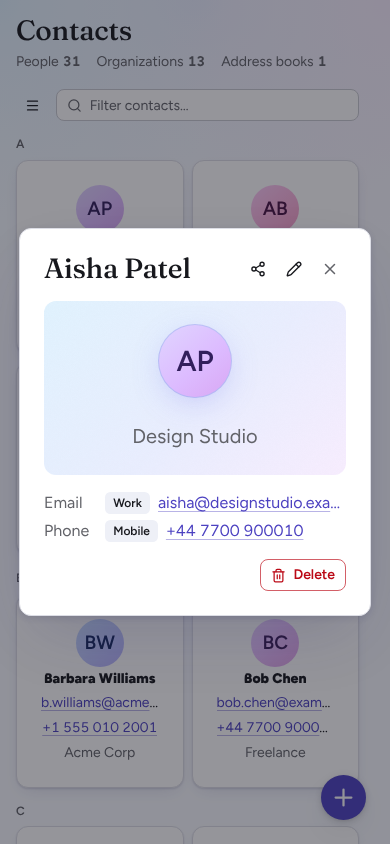
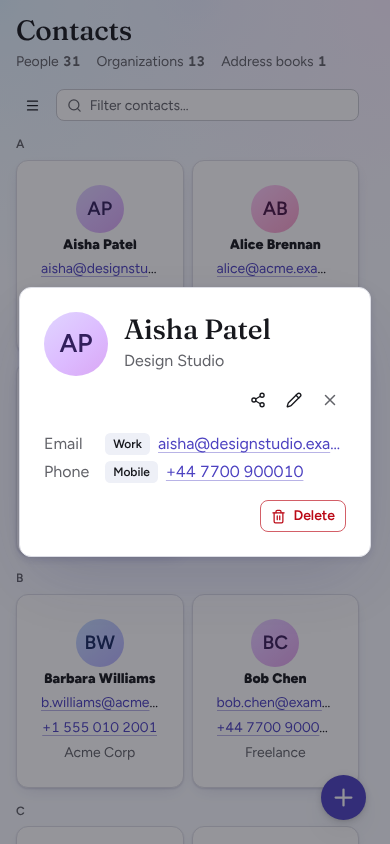
Contact dialog: one identity header; settings stays centred; temper's latest expressive fixes
From the design review of the remaining changes:
- The contact dialog's gradient band with a glowing avatar read as a social-profile template. The header now holds
  the identity: the seeded avatar, the name (the dialog's one display moment) and the organization under it, the
  actions at the end; on a phone they wrap onto their own row, so the name keeps the width.
- A pixel comparison of calendar, mail, search and settings against main (light, dark, desktop, phone) found them
  identical, but settings 8px off centre with newer temper: settings.scss set the column's padding without temper's
  whole-pixel centring knowing. It sets temper's side-padding variable instead.
- caley follows temper's branch to the commits with figures in the UI face, the hero's explicit gap and the
  wash fix; the sign-in page has more room between its tagline and its button. The demo write-up and screenshots are
  updated.

Claude-Session: https://claude.ai/code/session_01AjKzdyfRDrLBAvMECsGmEy

Changed region(s): [[0.0308, 0.2464, 0.9538, 0.7393], [0.8308, 0.4621, 0.8615, 0.4929], [0.7385, 0.4621, 0.7692, 0.4929]]

diff --git a/frontend/contacts/index.html b/frontend/contacts/index.html
@@ -146,8 +146,22 @@
 
       <dialog id="contact-detail" closedby="any" data-tm-elevation="floating"
               data-sn-let="{ c: contacts.find(x => sameContact(x, sel)) }">
-        <header>
-          <h2 data-tm-display="lg" data-sn-text="c?.fn_name || ''"></h2>
+        <!-- The header is the contact's identity in one place: the avatar, the name (the dialog's one display moment)
+             and the organization under it; the actions at the end. -->
+        <!-- a row that wraps: on a phone the actions take a row of their own under the identity, at its end, so the name
+             keeps the width (the identity grows, so on wider screens the actions sit at the end too) -->
+        <header data-tm-layout="row" data-tm-wrap="wrap" data-tm-justify="end" data-tm-gap="sm">
+          <div data-tm-layout="row" data-tm-gap="md" data-tm-wrap="none" data-tm-justify="start" data-tm-grow style="--tm-grow-basis: 15rem">
+            <template data-sn-if="c">
+              <person-avatar data-sn-with="{ name: c.fn_name, src: c.has_photo ? contactPhotoUrl(c) : null, size: 'xl' }"></person-avatar>
+            </template>
+            <div data-tm-layout="stack" data-tm-gap="xs" data-tm-grow>
+              <h2 data-tm-display="lg" data-sn-text="c?.fn_name || ''"></h2>
+              <template data-sn-if="c?.org">
+                <p data-tm-muted><span data-tm-sr-only data-sn-text="m.contacts_org() + ': '"></span><span data-sn-text="c?.org ?? ''"></span></p>
+              </template>
+            </div>
+          </div>
           <div data-tm-layout="row" data-tm-gap="xs" data-tm-wrap="none">
             <share-menu data-sn-with="{ item: c ? contactShare(c) : null }"></share-menu>
             <template data-sn-if="c">
@@ -160,15 +174,6 @@
         </header>
 
         <template data-sn-if="c">
-          <!-- the contact's band: the avatar on a gradient, the organization under it (with its label for screen readers) -->
-          <div data-tm-surface="gradient" data-tm-grain data-tm-hero data-tm-pad="lg">
-            <person-avatar data-sn-with="{ name: c.fn_name, src: c.has_photo ? contactPhotoUrl(c) : null, size: 'xl', halo: true }"></person-avatar>
-            <template data-sn-if="c.org">
-              <p data-tm-muted><span data-tm-sr-only data-sn-text="m.contacts_org() + ': '"></span><span data-sn-text="c.org"></span></p>
-            </template>
-          </div>
-
-          <!-- the organization is under the avatar, in the band above -->
           <dl data-tm-pairs>
             <template data-sn-if="c.emails.length">
               <dt data-sn-text="m.contacts_email()"></dt>

diff --git a/frontend/src/components/person-avatar.html b/frontend/src/components/person-avatar.html
@@ -3,9 +3,9 @@
   initials on one of temper's twelve seeded gradients (data-tm-seed, expressive.css), chosen from the name, so a
   person keeps their colour on every page.
   <person-avatar data-sn-with="{ name: c.fn_name, src: c.has_photo ? contactPhotoUrl(c) : null, size: 'lg' }"></person-avatar>
-  `size`: temper's data-tm-size (sm, md, lg), or xl (4.5rem, a profile header); `halo`: temper's glow. Hidden from
+  `size`: temper's data-tm-size (sm, md, lg), or xl (4rem, a profile header); `halo`: temper's glow. Hidden from
   screen readers: the name it pictures is beside it.
 -->
 <template data-sn-props="{ name: string; src?: string | null; size?: 'sm' | 'md' | 'lg' | 'xl'; halo?: boolean }"><span data-tm-avatar aria-hidden="true"
   data-sn-attr="{ 'data-tm-seed': avatarSeed(name), 'data-tm-size': size && size !== 'xl' ? size : null, 'data-tm-halo': halo ? '' : null }"
-  data-sn-style="{ '--tm-avatar-size': size === 'xl' ? '4.5rem' : null }"><template data-sn-if="src"><img alt="" loading="lazy" decoding="async" data-sn-attr="{ src }"></template><template data-sn-else><span data-sn-text="initials(name)"></span></template></span></template>
+  data-sn-style="{ '--tm-avatar-size': size === 'xl' ? '4rem' : null }"><template data-sn-if="src"><img alt="" loading="lazy" decoding="async" data-sn-attr="{ src }"></template><template data-sn-else><span data-sn-text="initials(name)"></span></template></span></template>

diff --git a/frontend/contacts/index.test.ts b/frontend/contacts/index.test.ts
@@ -121,8 +121,8 @@ test('the detail dialog shows the contact; an address opens the map', async () =
   const dialog = await openDetail(r, 'Ada Lovelace');
   expect(dialog.querySelector('h2')!.textContent).toBe('Ada Lovelace');
   const values = [...dialog.querySelectorAll('dd')].map((d) => d.textContent!.replace(/\s+/g, ' ').trim());
-  // the organization is in the band under the avatar, labelled for screen readers
-  expect(dialog.querySelector('[data-tm-hero] p')!.textContent).toBe('Organization: Engines Ltd');
+  // the organization is under the name in the header, labelled for screen readers
+  expect(dialog.querySelector('header p')!.textContent).toBe('Organization: Engines Ltd');
   expect(values).toEqual(['Work ada@example.com', 'Mobile +44 1', 'Home 1 Main St London N1 UK']);
   expect([...dialog.querySelectorAll('dd a[rel] br')].map((br) => br.hidden)).toEqual([false, false, true]);
   const map = dialog.querySelector<HTMLAnchorElement>('dd a[rel]')!;

diff --git a/frontend/src/styles/settings.scss b/frontend/src/styles/settings.scss
@@ -1,8 +1,8 @@
 // Settings page (settings/index.html).
 
 // temper's data-tm-layout="center" keeps at least md side padding; match the sm page padding of the other
-// pages so the nav toggle sits in the same place on phones.
+// pages so the nav toggle sits in the same place on phones. temper's --_px is the column's side padding: its width
+// and its whole-pixel centring are computed from it, so setting it (not padding-inline alone) keeps the column centred.
 .settings {
-  max-inline-size: calc(var(--tm-measure) + 2 * var(--tm-space-sm));
-  padding-inline: var(--tm-space-sm);
+  --_px: var(--tm-space-sm);
 }

diff --git a/docs/expressive-demo/README.md b/docs/expressive-demo/README.md
@@ -60,6 +60,10 @@ title with the list and gives the cards more room.
 | Phone, light | ![](screenshots/contact-detail-before-phone-light.png) | ![](screenshots/contact-detail-after-phone-light.png) |
 | Phone, dark | ![](screenshots/contact-detail-before-phone-dark.png) | ![](screenshots/contact-detail-after-phone-dark.png) |
 
+The contact's identity in one header: the seeded avatar, the name as the dialog's one display moment and the
+organization under it, the actions at the end (on a phone, on their own row so the name keeps the width). A first
+version with a gradient band and a glowing avatar read as a social-profile template and was removed in the review.
+
 ### A rebrand is one number
 
 The same build with only `--tm-hue: 160` added (caley's is 280).
@@ -113,7 +117,19 @@ screenshots led, over five rounds, to:
 - the avatar seeds narrowed to ±50° and calmer in dark (no red or maroon);
 - the title aligned with the list.
 
+The sign-in page, the contact dialog and temper's own reference page for the module (`kitchen-sink/expressive.html`)
+went through the same review afterwards; temper's reference page now teaches the restraint (two worked examples, then
+each part with when to use it) instead of the template look.
+
 Out of scope and unchanged: the floating add button can cover the last card on a phone, as before.
+
+## The rest of caley is unchanged
+
+Calendar, mail (list and an open message), search and settings were compared pixel by pixel with `main`, light and
+dark, desktop and phone: identical, apart from settings on desktop, where temper's whole-pixel centring (already on
+temper's `main`) moves the column by half a pixel. That comparison also found that caley's `settings.scss` set the
+column's padding without temper's centring knowing, which would have put it 8px off centre with any newer temper; it
+now sets temper's side-padding variable instead.
 
 ## What changed in caley
 
